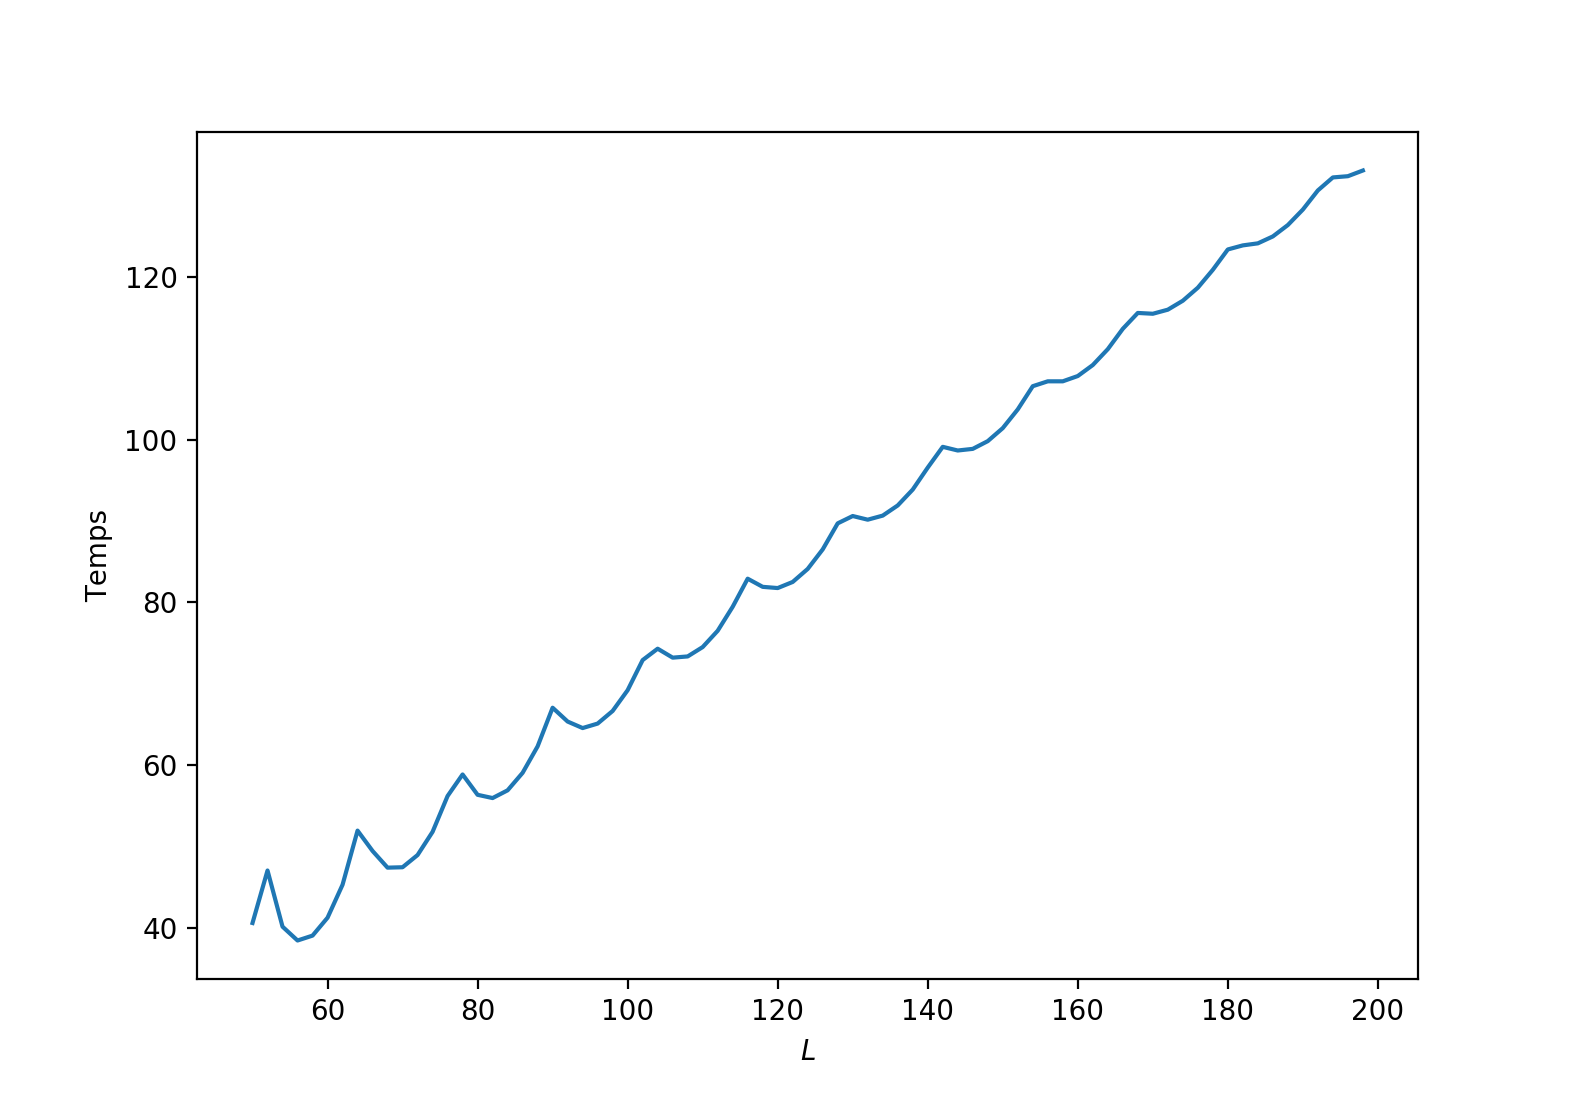
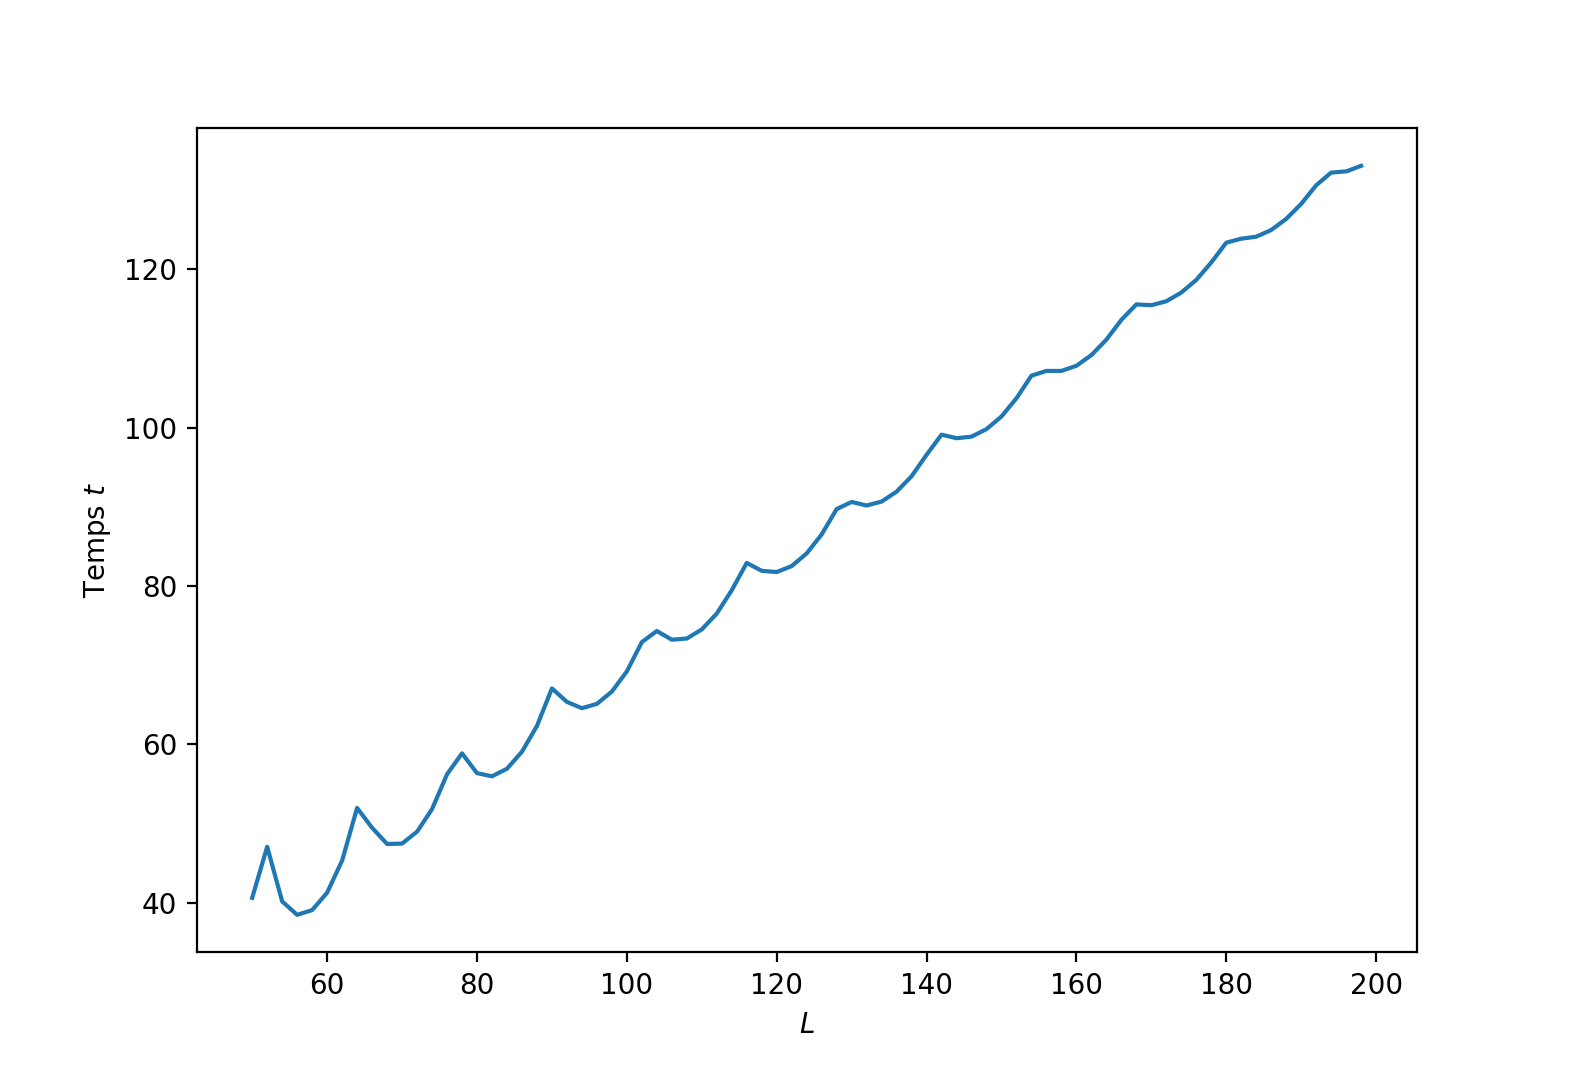
Correction longueur d'onde

diff --git a/pattern.py b/pattern.py
@@ -1,8 +1,7 @@
 import numpy as np
-from numpy import cos, pi, exp, sqrt
+from numpy import cos, pi, exp, sqrt, log
 import matplotlib.pyplot as plt
 from matplotlib.colors import Colormap
-import scipy.signal as scsg
 from scipy.integrate import simps
 
 
@@ -256,28 +255,32 @@ def r_effect(u0, r_range):
     plt.show()
     plt.clf()
     
-    plt.plot(r_range, wavenb)
-    plt.xlabel("$r$")
-    plt.ylabel("Nombre d'onde $k$")
+    time2 = []
+    r2 = []
+    for i in range(len(r_range)):
+        if time[i] != 0:
+            time2.append(log(time[i]))
+            r2.append(log(r_range[i]))
+    time2 = np.array(time2)
+    r2 = np.array(r2)
+    slope = (time2[1:] - time2[:-1])/(r2[1:] - r2[:-1])
+    plt.plot(r2[1:], slope)
+    plt.xlabel("$\ln (r)$")
+    plt.ylabel("$d/d\ln r \ \ln (t)$")
+    plt.ylim([2*max(slope), 0])
     plt.show()
     plt.clf()
     
     wavelength = np.zeros((len(r_range)))
     for i in range(len(r_range)):
         if wavenb[i] != 0:
-            wavelength[i] = 2*pi/wavenb[i]
+            wavelength[i] = L/wavenb[i]
     plt.plot(r_range, wavelength)
     plt.xlabel("$r$")
-    plt.ylabel("Longueur d'onde $\lambda$")
+    plt.ylabel("Longueur d'onde $\lambda_m$")
     plt.show()
     plt.clf()
 
-    plt.plot(r_range, wavenb, label = "$k$")
-    plt.plot(r_range, time/4, label = "$t/4$")
-    plt.xlabel("$r$")
-    plt.legend()
-    plt.show()
-    plt.clf()
 
 def L_effect(u0, L_range):
     """"Mesure du temps d'apparition des motifs et de leurs longueur d'onde en fonction de L"""
@@ -292,25 +295,21 @@ def L_effect(u0, L_range):
 
     plt.plot(L_range, time)
     plt.xlabel("$L$")
-    plt.ylabel("Temps")
+    plt.ylabel("Temps $t$")
     plt.show()
     plt.clf()
     
-    plt.plot(L_range, wavenb)
+    plt.plot(L_range, L_range/wavenb)
     plt.xlabel("$L$")
-    plt.ylabel("Nombre d'onde $k$")
-    plt.show()
-    plt.clf()
-    
-    plt.plot(L_range, 2*pi/wavenb)
-    plt.xlabel("$L$")
-    plt.ylabel("Longueur d'onde $\lambda$")
+    plt.ylabel("Longueur d'onde $\lambda_m$")
+    plt.ylim([0, 1.7*max(L_range/wavenb)])
     plt.show()
     plt.clf()
 
-    plt.plot(L_range, wavenb, label = "$k$")
-    plt.plot(L_range, time/4, label = "$t/4$")
+    plt.plot(L_range, L_range/wavenb, label = "$\lambda_m$")
+    plt.plot(L_range, 9.53*time/L_range, label = "$t/L$")
     plt.xlabel("$L$")
+    plt.ylim([0, 1.7*max(L_range/wavenb)])
     plt.legend()
     plt.show()
     plt.clf()
